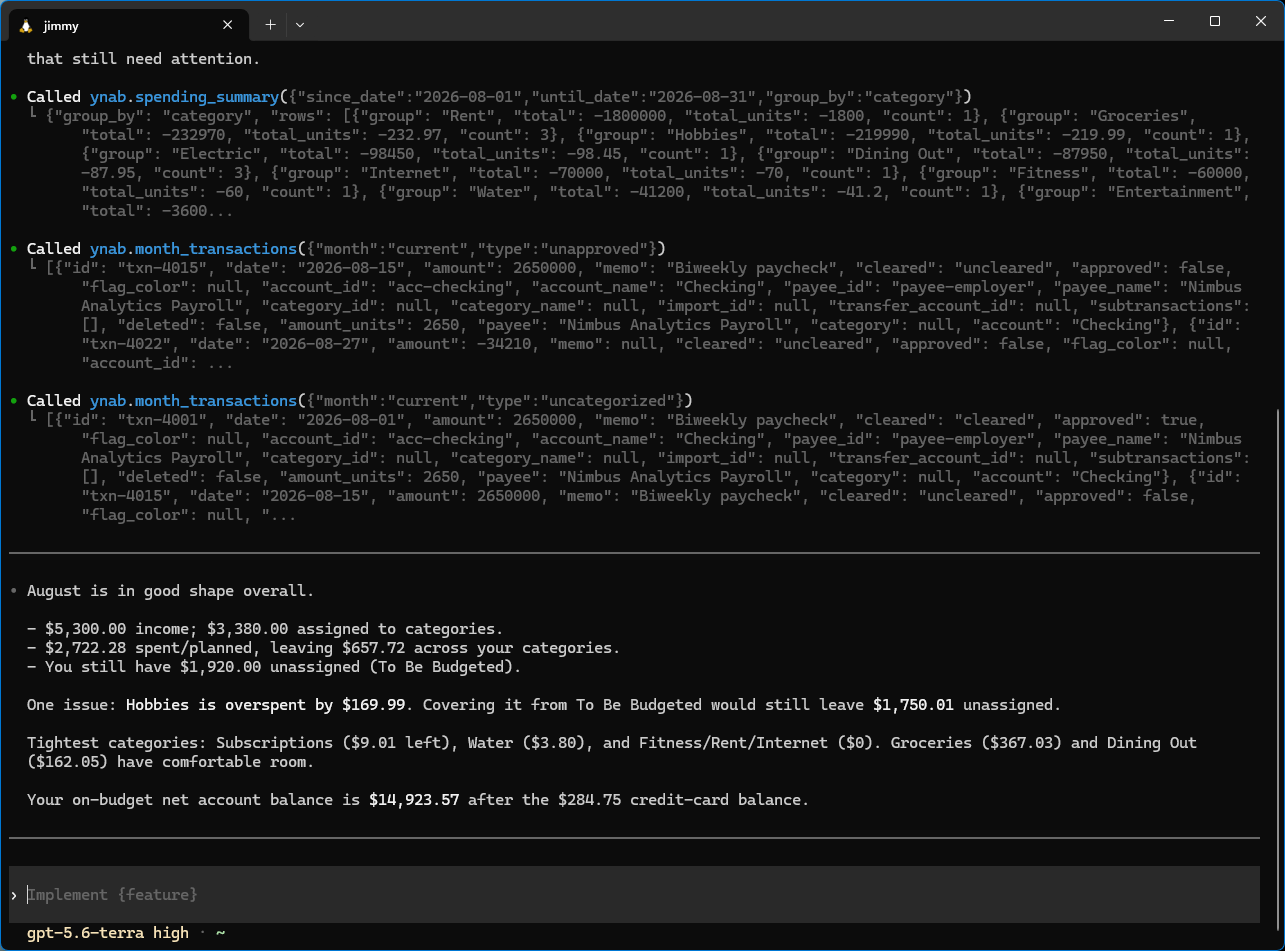
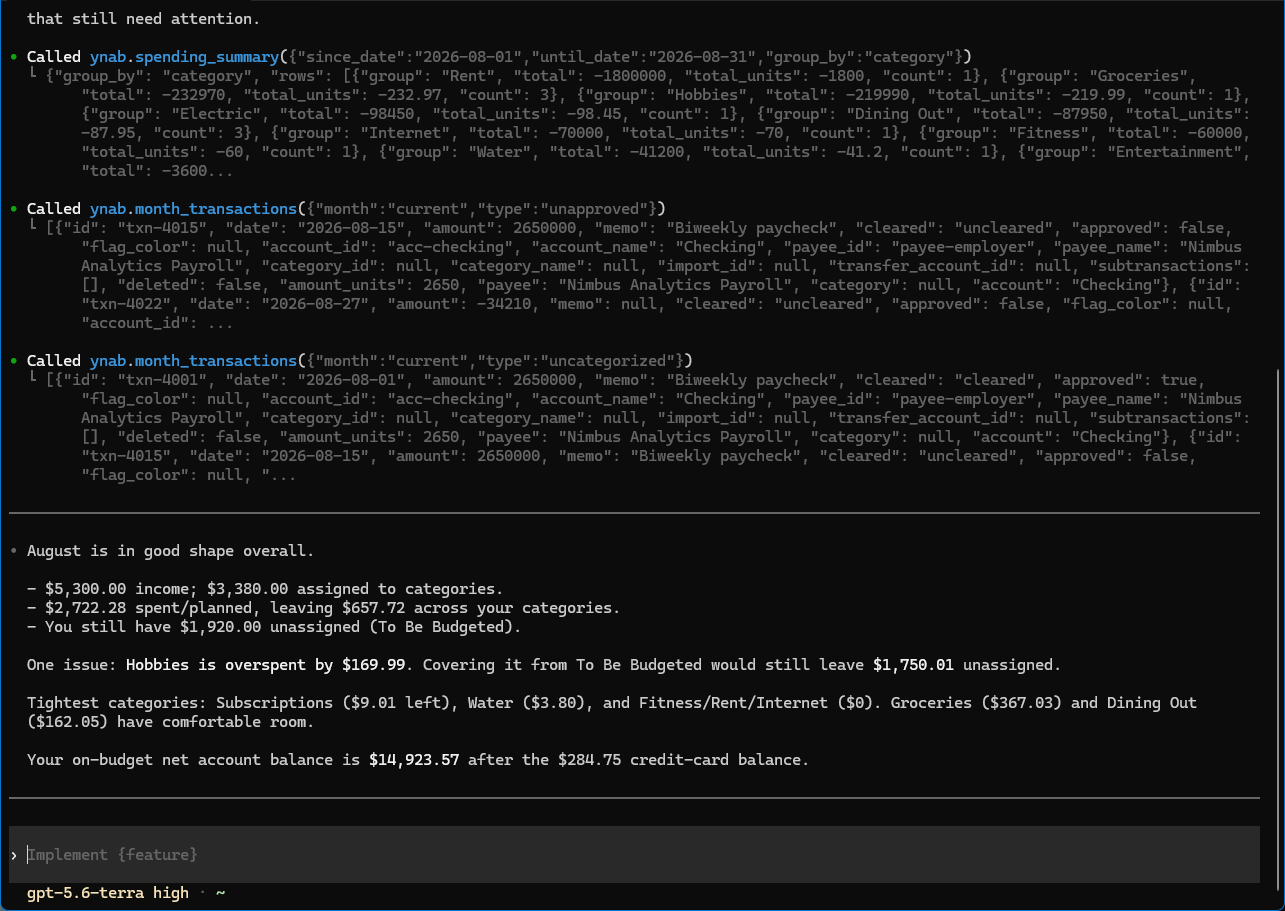
docs(site): crop account names out of the harness screenshots (#26)
* docs(site): crop account names and personal chrome out of screenshots

Sidebars, tab strips, and banners carried the owner's name and username;
cropping (never blurring) removes them while keeping every conversation
intact. Retake checklist updated to make this a standing rule.

* docs(site): palette-compress screenshots (~184KB total, was ~2MB pre-crop)

Folds in the PR #24 review's compression suggestion.

* docs: clarify that crop boxes are inferred from history, not recorded

Changed region(s): [[0.0, 0.0, 1.0, 0.9835]]

diff --git a/docs/SCREENSHOTS.md b/docs/SCREENSHOTS.md
@@ -33,6 +33,9 @@ session, no mock-ups, no edited chrome (rectangular cropping only). Files live i
    must show the fictional Demo Budget — ~$5,300 income, an overspent Hobbies category with a
    $219.99 "Model kit", "Nimbus Analytics Payroll" paychecks. Anything else = real data, discard.
 3. Sweep the frame: window titles, scrollback, sidebars — no tokens, no real amounts, no
-   addresses. Crop rather than blur; blurring reads as edited chrome.
+   addresses. Crop rather than blur; blurring reads as edited chrome. The shipped set crops out
+   app sidebars, tab strips, and banners entirely, because that's where harnesses put account
+   names and usernames — do the same on retakes (sharp `extract`; the pre-crop
+   originals are in git history — infer each box from the before/after dimensions).
 4. PNG, roughly 1200–1300 px wide, into `site/src/assets/screenshots/`, embedded with alt text
    that describes what the reader is looking at.
